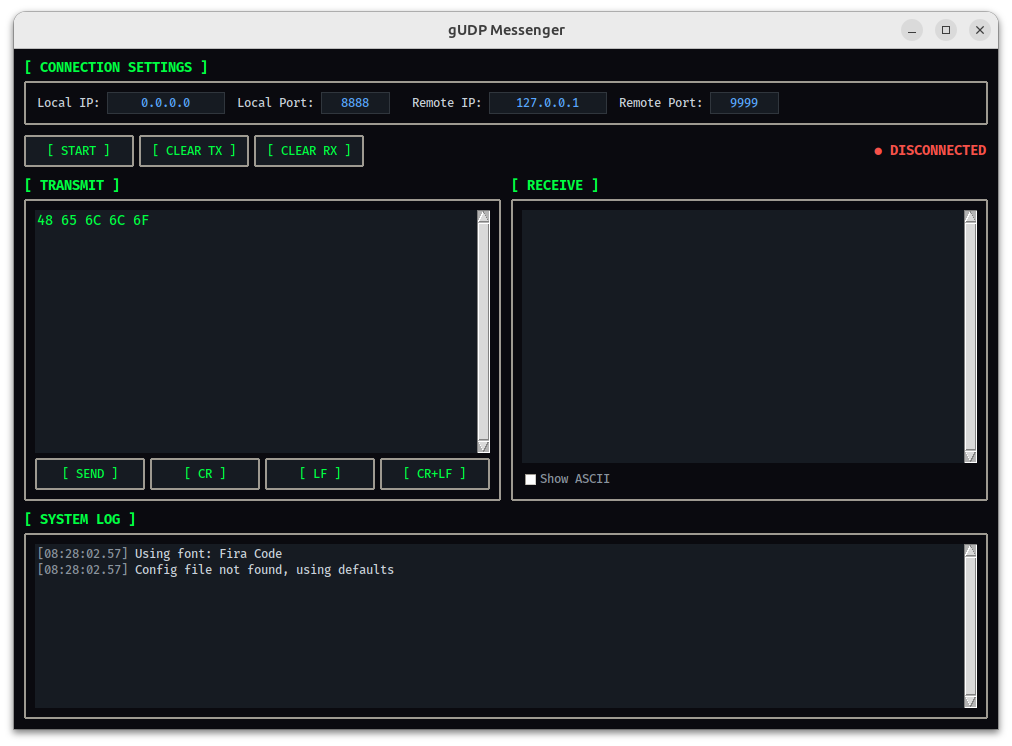
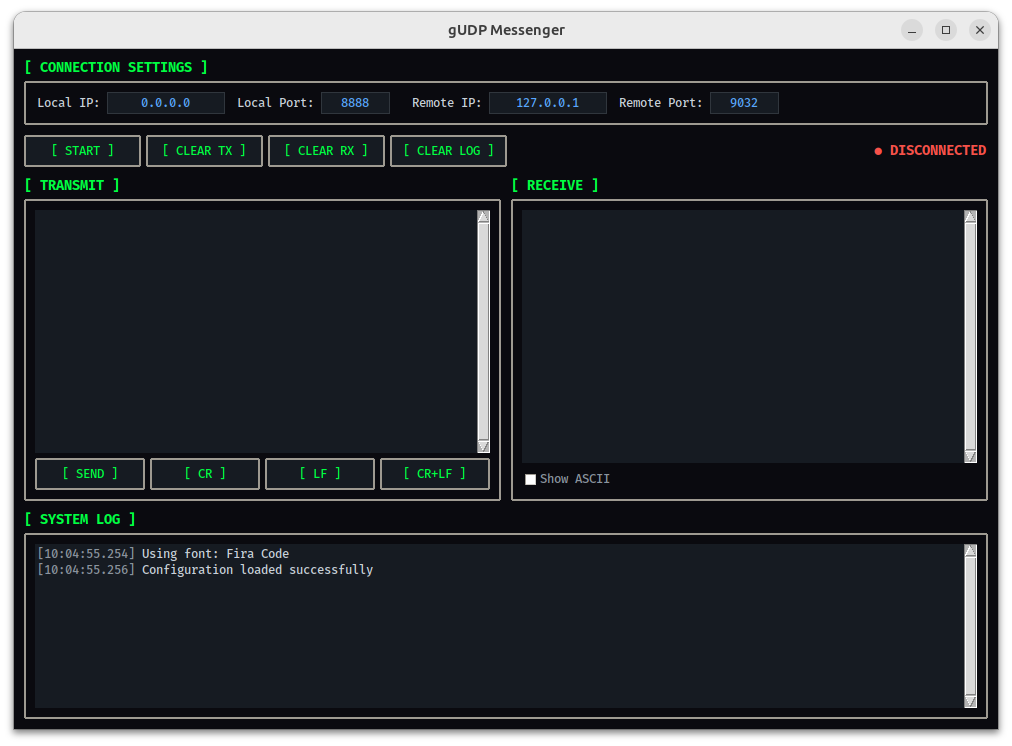
refactor(docs): Update READMe and figures

diff --git a/README.md b/README.md
@@ -16,6 +16,8 @@ A simple UDP Hexadecimal Messenger Application for sending and receiving hexadec
 
 ![Figure 01](docs/images/Figure_01.png)
 
+![Figure 02](docs/images/Figure_02.png)
+
 ## Requirements
 
 - Python 3.6 or higher
@@ -77,6 +79,7 @@ python gudp_messenger.py
 5. **Clear Panels**:
    - `[ CLEAR TX ]` clears the transmit panel
    - `[ CLEAR RX ]` clears the receive panel
+   - `[ CLEAR LOG ]` clears the system log panel
 
 6. **File Operations**:
    - Right-click in the transmit panel to open context menu
